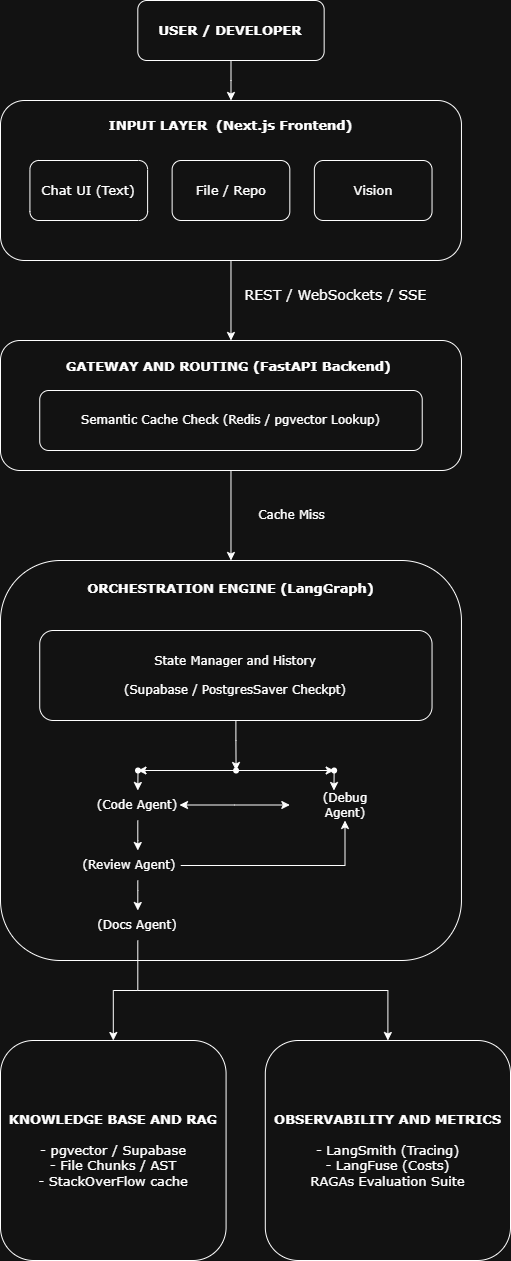
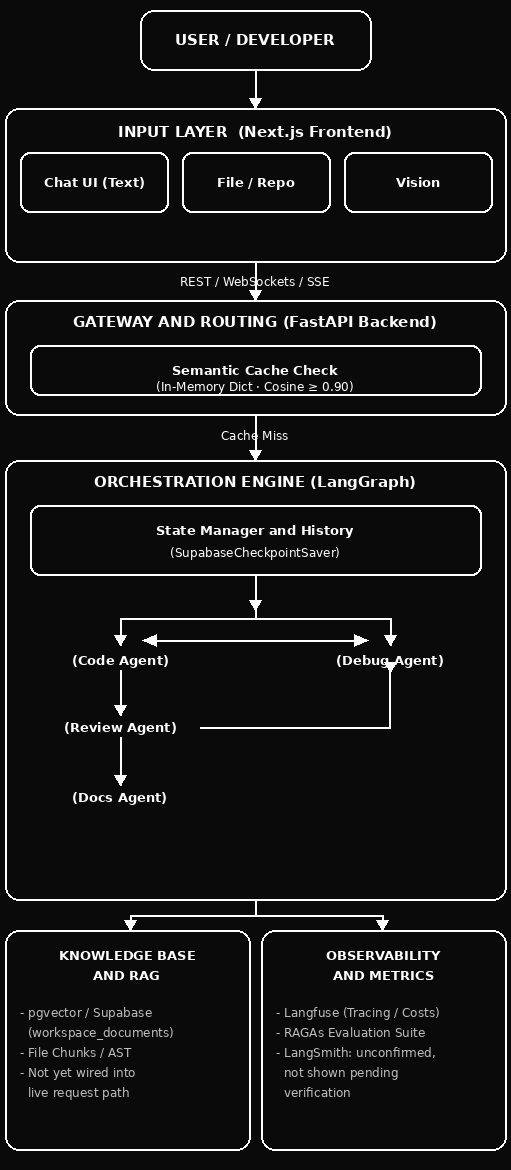
Semantic Cache, Redis Cleanup, Diagram, LangSmith, CI Fixes

diff --git a/backend/app/services/optimization.py b/backend/app/services/optimization.py
@@ -19,21 +19,25 @@ def get_router_client():
 # ==========================================
 # 📐 VECTOR SPACE COSINE SIMILARITY MATH
 # ==========================================
-def _get_embedding(text: str) -> Optional[list[float]]:
-    """Generates a dense vector footprint using production-grade gemini-embedding-001."""
+def _get_embedding(text: str) -> list[float]:
+    """Generates a dense vector footprint using gemini-embedding-001.
+
+    Raises on any failure instead of silently returning None. A silent None
+    was the root cause of the cache never populating — callers (main.py) catch
+    and log, then skip the cache for that request only.
+    """
     api_key = os.getenv("GEMINI_API_KEY") or os.getenv("GOOGLE_API_KEY") or os.getenv("OPENAI_API_KEY")
     if not api_key:
-        return None
-    try:
-        client = genai.Client(api_key=api_key)
-        response = client.models.embed_content(
-            model="gemini-embedding-001",
-            contents=text.strip()
+        raise RuntimeError(
+            "Semantic cache embedding failed: no GEMINI_API_KEY / GOOGLE_API_KEY / OPENAI_API_KEY configured."
         )
-        return response.embeddings[0].values
-    except Exception as e:
-        print(f"⚠ [Embedding Generation Failure] Could not calculate prompt vector: {e}")
-        return None
+
+    client = genai.Client(api_key=api_key)
+    response = client.models.embed_content(
+        model="gemini-embedding-001",
+        contents=text.strip()
+    )
+    return response.embeddings[0].values
 
 def _calculate_cosine_similarity(vec1: list[float], vec2: list[float]) -> float:
     """Computes the spatial dot-product cosine angle between two vector footprints."""
@@ -59,8 +63,6 @@ def query_semantic_cache(prompt: str, command: Optional[str], threshold: float =
     """
     # 1. Generate target query vector matrix
     input_vector = _get_embedding(prompt)
-    if not input_vector:
-        return None
 
     highest_similarity = -1.0
     matched_response = None
@@ -93,8 +95,6 @@ def update_semantic_cache(prompt: str, command: Optional[str], response: str) ->
         return
         
     vector = _get_embedding(prompt)
-    if not vector:
-        return
 
     # Use a deterministic signature mapping to build clear record indexes
     cache_key = f"{command or 'none'}:{prompt.strip().lower()}"

diff --git a/backend/app/main.py b/backend/app/main.py
@@ -1,5 +1,6 @@
 import asyncio
 import json
+import logging
 import sys
 import threading
 import os
@@ -11,6 +12,8 @@ from fastapi.middleware.cors import CORSMiddleware
 from fastapi.responses import StreamingResponse
 from langchain_core.messages import HumanMessage, SystemMessage
 from backend.app.services.analytics import get_platform_metrics
+
+logger = logging.getLogger("devmind.cache")
 
 ROOT_DIR = Path(__file__).resolve().parents[2]
 if str(ROOT_DIR) not in sys.path:
@@ -313,7 +316,13 @@ async def agent_stream_generator(
     has_image = bool(image_base64)
     
     # 1. Run Semantic Cache Lookup to protect quotas and tokens
-    cached_response = query_semantic_cache(prompt, command)
+    # Embedding failure must not break the user's request: log it, skip the
+    # cache for this request only, and fall through to the LLM path.
+    try:
+        cached_response = query_semantic_cache(prompt, command)
+    except Exception as e:
+        logger.warning("Semantic cache lookup skipped (embedding failure): %s", e)
+        cached_response = None
     if cached_response:
         payload = {
             "active_node": "semantic_cache_hit",
@@ -355,8 +364,8 @@ async def agent_stream_generator(
             if accumulated_final_text.strip():
                 try:
                     update_semantic_cache(prompt, command, accumulated_final_text)
-                except Exception:
-                    pass
+                except Exception as e:
+                    logger.warning("Semantic cache write skipped (embedding failure): %s", e)
             
             # Fire the database synchronization completely out-of-band to a background thread pool.
             # This allows the loop to break naturally and lets FastAPI close the HTTP context natively.
@@ -378,8 +387,8 @@ async def agent_stream_generator(
                 parsed_chunk = json.loads(clean_json)
                 if isinstance(parsed_chunk, dict) and parsed_chunk.get("latest_artifact"):
                     accumulated_final_text = parsed_chunk["latest_artifact"]
-        except Exception:
-            pass
+        except Exception as e:
+            logger.warning("Failed to capture response text for semantic cache: %s", e)
             
         # Yield the raw chunk exactly as it was generated by the core specialist agents
         yield chunk

diff --git a/evals/run_evals.py b/evals/run_evals.py
@@ -144,13 +144,25 @@ def build_dataset() -> EvaluationDataset:
         SingleTurnSample(
             user_input="How does the semantic cache work in DevMind?",
             response=(
-                "DevMind embeds incoming queries and computes cosine similarity "
-                "against cached responses stored in pgvector. "
-                "If similarity exceeds 0.92, the cached answer is returned immediately "
-                "without invoking the LLM, reducing token cost."
+                "DevMind embeds incoming queries using gemini-embedding-001 and computes "
+                "cosine similarity against cached responses stored in an in-memory, "
+                "process-local Python dict (SEMANTIC_CACHE_STORE). "
+                "If similarity meets the threshold of 0.90, the cached answer is returned "
+                "immediately without invoking the LLM, reducing token cost. "
+                "Each cache entry is scoped per-command via a key of the form "
+                "command:prompt.lower(), so hits only match within the same routing intent. "
+                "The cache is volatile: it lives only for the life of the process and is "
+                "not shared across multiple workers."
             ),
             retrieved_contexts=[
-                "The semantic cache uses pgvector cosine similarity with a threshold of 0.92.",
+                "The semantic cache stores cached responses as embedding vectors in an in-memory, "
+                "process-local Python dict (SEMANTIC_CACHE_STORE) using gemini-embedding-001 "
+                "for cosine similarity lookups.",
+                "Cache lookup matches only when cosine similarity is at least the threshold of 0.90.",
+                "Cache entries are keyed per-command as command:prompt.lower(), so a hit is only "
+                "returned when the query shares the same routing command as the cached entry.",
+                "The cache is volatile and process-local: entries are lost on process restart "
+                "and are not shared across multiple workers.",
                 "Cache hits bypass the LangGraph workflow entirely, logging zero token cost to Langfuse.",
                 "Incoming queries are embedded before similarity comparison against cached responses."
             ]

diff --git a/docs/architecture.md b/docs/architecture.md
@@ -128,13 +128,13 @@ Every incoming textual query undergoes evaluation at the FastAPI gateway to inte
                                   │
                   ┌───────────────┴───────────────┐
                   ▼                               ▼
-      Cosine Similarity >= 0.92        Cosine Similarity < 0.92
+      Cosine Similarity >= 0.90        Cosine Similarity < 0.90
           [ CACHE HIT ]                   [ CACHE MISS ]
      Instant Reply to Client          Execute LangGraph Engine
 ```
 
 > ### ⚠ Operational Cache Rule
-> If vector processing returns an index match where the Cosine Similarity metric is greater than or equal to **0.92**, the payload is intercepted immediately. The system returns the historical output stored in Redis, bypassing token expenditure and achieving zero downstream latency.
+> The semantic cache is an **in-memory, process-local Python dict** (`backend/app/services/optimization.py`), populated with embeddings from **`gemini-embedding-001`**. If an incoming query's cosine similarity to a cached entry is greater than or equal to **0.90** (and the command context matches), the cached response is returned immediately, bypassing token expenditure and achieving zero downstream latency. The cache is **single-worker scoped**: entries are lost on restart and are never shared across multiple workers or containers.
 
 ---
 
@@ -162,17 +162,15 @@ DevMind runs across isolated computing zones, synchronized via environment key v
                      └────────────┬────────────┘
                                   │ HTTP / WebSockets
                                   ▼
-                     ┌─────────────────────────┐
-                     │     FastAPI Backend     │
-                     │   (Deployed: Railway)   │
-                     └─────┬─────────────┬─────┘
-                           │             │
-              ┌────────────┘             └────────────┐
-              ▼                                       ▼
-  ┌───────────────────────┐               ┌───────────────────────┐
-  │   Supabase Postgres   │               │      Redis Cache      │
-  │  (pgvector + Storage) │               │  (Semantic Key Store) │
-  └───────────────────────┘               └───────────────────────┘
+                    ┌─────────────────────────┐
+                    │     FastAPI Backend     │
+                    │   (Deployed: Railway)   │
+                    └────────────┬────────────┘
+                                 ▼
+                     ┌───────────────────────┐
+                     │   Supabase Postgres   │
+                     │  (pgvector + Storage) │
+                     └───────────────────────┘
 ```
 
 ### Required Configuration Matrix
@@ -180,13 +178,14 @@ DevMind runs across isolated computing zones, synchronized via environment key v
 ```bash
 # Infrastructure Service Gateways
 DATABASE_URL="postgresql://postgres:[PASSWORD]@aws-0-ap-south-1.pooler.supabase.com:6543/postgres?sslmode=require"
-REDIS_URL="redis://:default:[PASSWORD]@redis-production.railway.internal:6379"
 
 # Core LLM Engine & Observability API Keys
 OPENAI_API_KEY="sk-proj-xxxxxxxxxxxxxxxxxxxxxxxx"
-LANGCHAIN_TRACING_V2="true"
-LANGCHAIN_API_KEY="lsv2_pt_xxxxxxxxxxxxxxxxxxxxxxxx"
-LANGCHAIN_PROJECT="devmind-core-orchestrator"
 LANGFUSE_PUBLIC_KEY="pk-lf-xxxxxxxxxxxxxxxxxxxxxxxx"
 LANGFUSE_SECRET_KEY="sk-lf-xxxxxxxxxxxxxxxxxxxxxxxx"
-``` 
+```
+
+> **Observability:** Tracing is Langfuse-only by design. LangChain-core's
+> built-in LangSmith auto-tracing is intentionally left disabled (no
+> `LANGCHAIN_TRACING_V2` / `LANGCHAIN_API_KEY` / `LANGCHAIN_PROJECT`) to
+> avoid duplicate traces to two backends. 

diff --git a/README.md b/README.md
@@ -135,7 +135,7 @@ devmind/
 │       ├── review_agent.py
 │       └── docs_agent.py
 ├── backend/
-│   ├── DockerFile
+│   ├── Dockerfile
 │   └── app/
 │       ├── main.py                 # FastAPI entrypoint — all routes defined here
 │       └── services/
